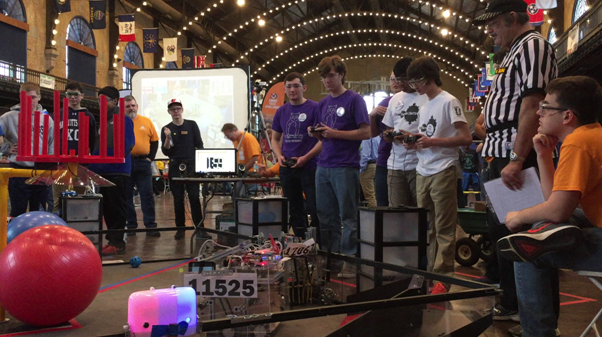
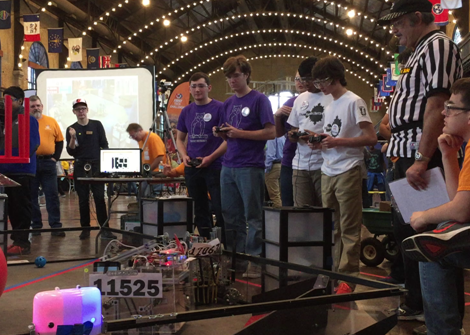
resize image and fix buttons

diff --git a/index.html b/index.html
@@ -21,12 +21,12 @@
 <script src="scripts/slide.js"></script>
 
 <script >
-setslideshow("slideshow",9,["pics/Picture1.png","pics/Picture2.jpg","pics/Picture3.jpg","pics/Picture4.png","pics/Picture5.png","pics/Picture6.jpg","pics/Picture7.jpg","pics/Capture.PNG","pics/Picture9.png"]);
+setslideshow("slideshow",9,["pics/Picture1.png","pics/Picture2.jpg","pics/Picture3.jpg","pics/Picture4.jpg","pics/Picture5.png","pics/Picture6.jpg","pics/Picture7.jpg","pics/Capture.PNG","pics/Picture9.png"]);
 </script>
 	<div class="slideshow" id="slideshow" onload="prev()">
-		<button class="prev" onclick="prev()"><img src="pics/chevron-left.png" class="navi"></img></button>
+		<button class="prev" onclick="prev()"><img src="pics/mandleft.png" class="navi"></img></button>
 
-		<button class="next" onclick="next()"><img src="pics/chevron-right.png" class="navi"></img></button>
+		<button class="next" onclick="next()"><img src="pics/mandright.png" class="navi"></img></button>
 	</div>
 <p style="font-style: italic">want more?<a href="log.html"> Here are our meeting logs</a></p>
 <h1>Who are we?</h1>

diff --git a/styles/style.css b/styles/style.css
@@ -149,27 +149,27 @@ img {
 .prev {
 	display : inline-block;
 	position : absolute;
-	top :40%;
+	top :45%;
 	left : 0%;
 	background-image: url("../pic/background.jpg");
 	padding-top : 0%;
 	padding-bottom : 0%;
-	padding-left : 0%;
+	padding-left : 1%;
 	padding-right : 0%;
-	width : 8%;
+	width : 7%;
 	border : none;
 }
 .next {
 	display : inline-block;
 	position : absolute;
-	top :40%;
+	top :45%;
 	right : 0%;
 	background-image: url("../pic/background.jpg");
 	padding-top : 0%;
 	padding-bottom : 0%;
 	padding-left : 0%;
-	padding-right : 0%;
-	width : 8%;
+	padding-right : 1%;
+	width :7%;
 	border : none;
 }
 .navi {
@@ -179,7 +179,7 @@ img {
 	margin-left : 0%;
 	width : 100%;
 	height : auto;
-	opacity : 0.5;
+	opacity : 0.8;
 	box-shadow : none;
 }
 .slidebar {

diff --git a/src/cont/index.html b/src/cont/index.html
@@ -3,7 +3,7 @@
 <script src="scripts/slide.js"></script>
 
 <script onload="next()">
-setslideshow("slideshow",9,["pics/Picture1.png","pics/Picture2.jpg","pics/Picture3.jpg","pics/Picture4.png","pics/Picture5.png","pics/Picture6.jpg","pics/Picture7.jpg","pics/Capture.PNG","pics/Picture9.png"]);
+setslideshow("slideshow",9,["pics/Picture1.png","pics/Picture2.jpg","pics/Picture3.jpg","pics/Picture4.jpg","pics/Picture5.jpg","pics/Picture6.jpg","pics/Picture7.jpg","pics/Capture.PNG","pics/Picture9.png"]);
 
 </script>
 	<div class="slideshow" id="slideshow" onload="upd()">

diff --git a/scripts/slide.js b/scripts/slide.js
@@ -1,6 +1,6 @@
 //everything's a global because i'm lazy and this is all the JS on the page anyways
 slidenum = 9; // number of slides
-slidelinks = ["pics/Picture1.png","pics/Picture2.jpg","pics/Picture3.jpg","pics/Picture4.png","pics/Picture5.png","pics/Picture6.jpg","pics/Picture7.jpg","pics/Capture.PNG","pics/Picture9.png"]; //empty array for slide links
+slidelinks = []; //empty array for slide links
 slideid = ""; // slideshow id
 slide = 0; // current slide
 function setslideshow(rid, rslidenum,rslidelinks ) {
